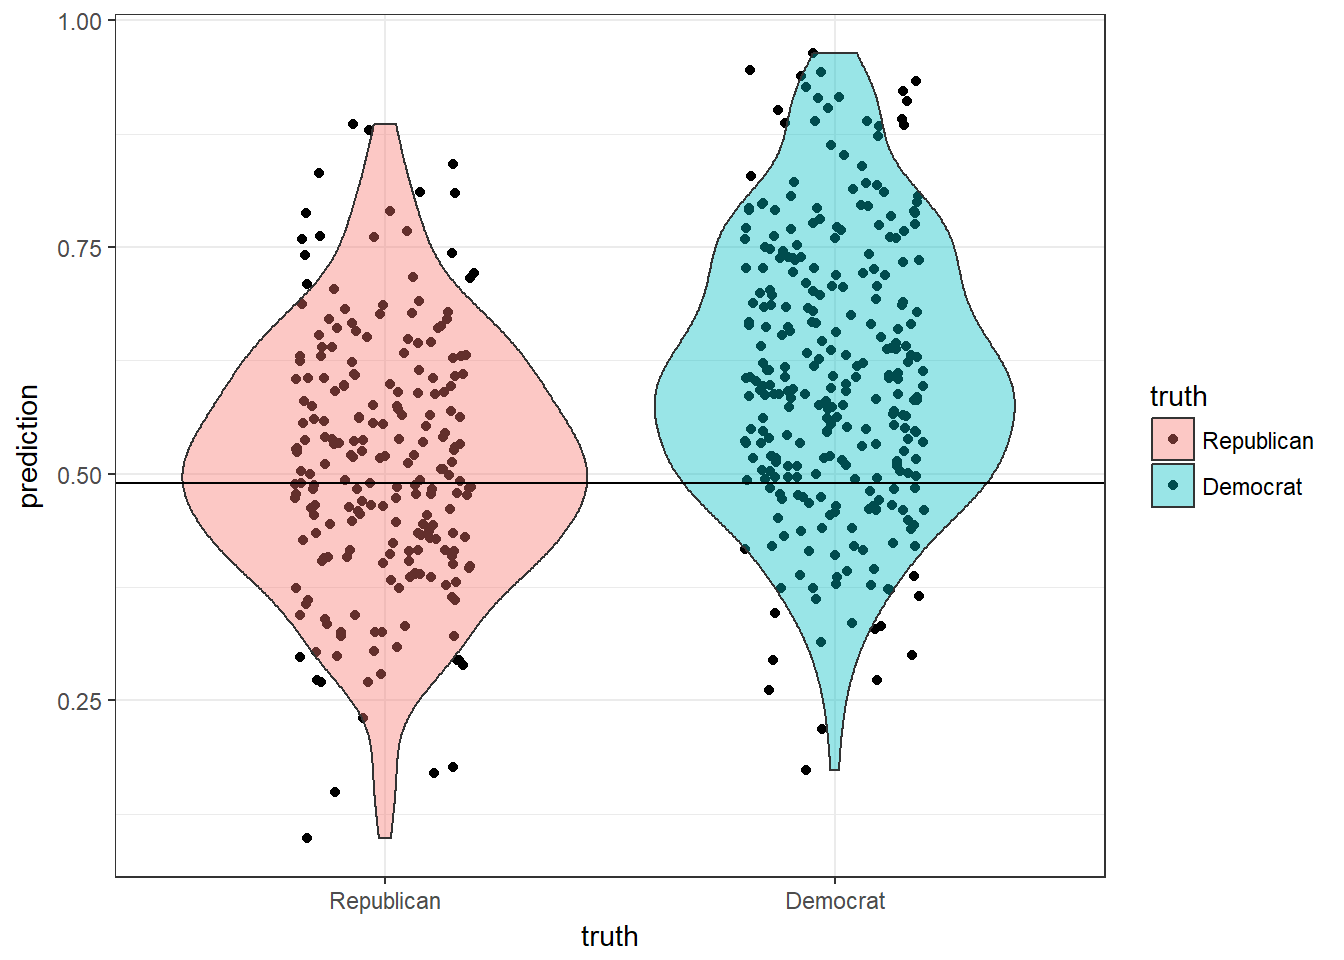
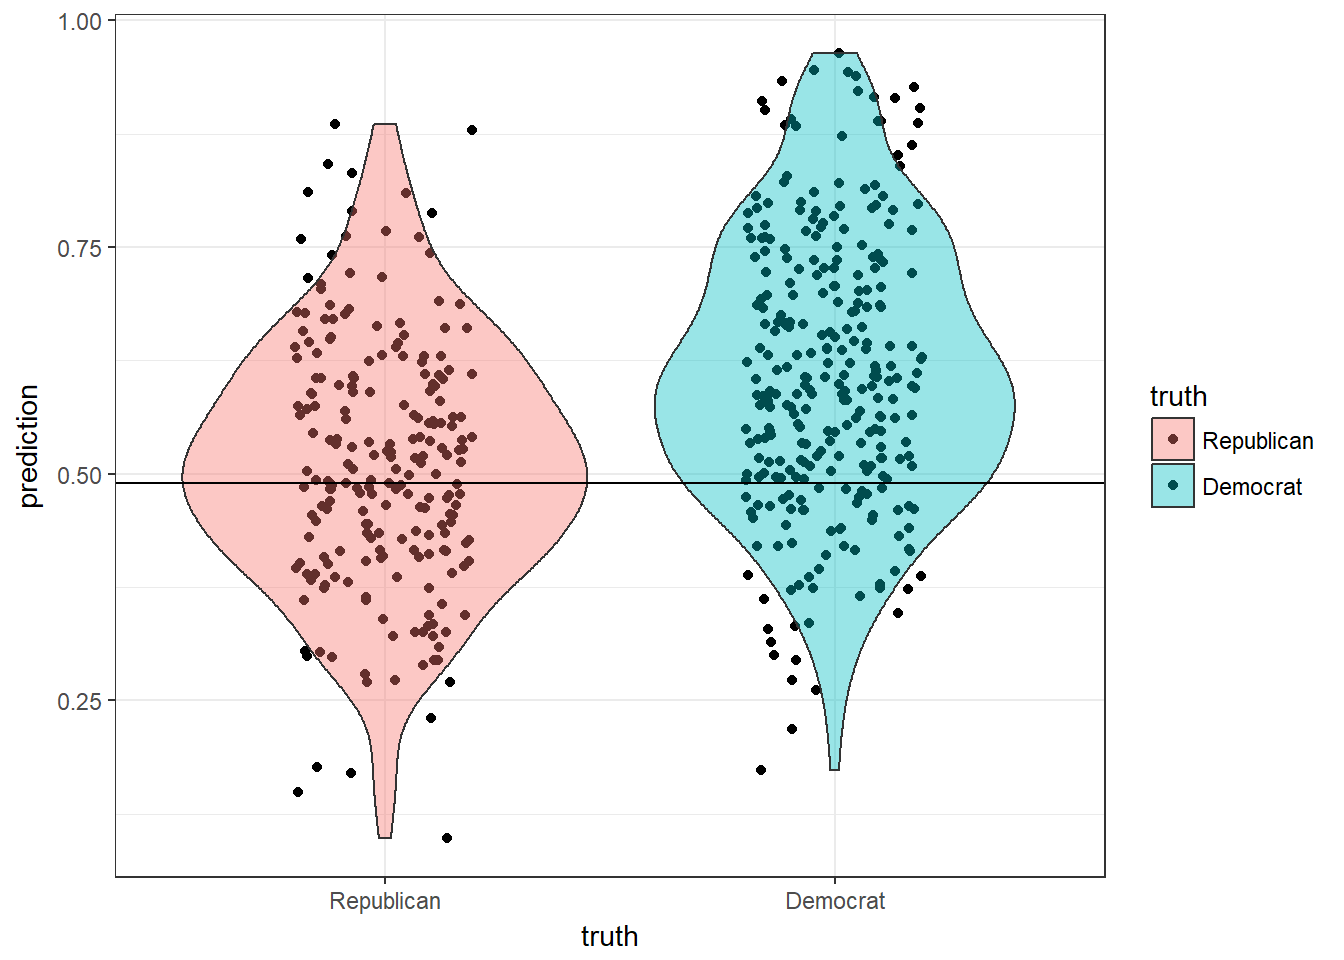
fake news edit

diff --git a/fake_news_project.html b/fake_news_project.html
@@ -261,36 +261,36 @@ PEW7: How much do you think these kind of stories leave Americans confused about
 ## 
 ## Number of Fisher Scoring iterations: 5</code></pre>
 <p>After selecting all of the PEW questions and a couple of extra variables we created a logistic model. The dependent variable here is political ideology. We changed the variable from 5 levels to just 2, extreme and moderate. Extreme included people who were very liberal and very conservative. Moderate was everything else.</p>
-<p><img src="fake_news_project_files/figure-html/unnamed-chunk-6-1.png" width="672" /> With a glm we need to find a cutoff point for what group a probability goes into. This plot lets us get a good idea. The cutoff should be around when the line starts to drop off. I’m choosing .79</p>
+<p><img src="fake_news_project_files/figure-html/unnamed-chunk-6-1.png" width="672" /> With a glm we need to find a cutoff point for what group a probability goes into. This plot lets us get a good idea. The cutoff should be around when the line starts to drop off. I’m choosing .85. So, in this model a true positive for extreme will be less than .85 and a true negative for moderate will be greater than .85.</p>
 <p><img src="fake_news_project_files/figure-html/unnamed-chunk-7-1.png" width="672" /></p>
-<p>This plot shows how accurate the predictions were. If a dot is above out cutoff line at .79, then it was predicted accurately. We see that ot got most of the moderates right but it looks like not much more than half of the extremes were correct. We can look at this accuracy mathematically.</p>
+<p>This plot shows that we chose a good cutoff. For the moderates, most of them are above the line. If the line was any higher we would predict too many moderates falsely.</p>
 <pre><code>## Confusion Matrix and Statistics
 ## 
 ##           Reference
 ## Prediction Extreme Moderate
-##   Extreme       33       71
-##   Moderate      68      637
-##                                           
-##                Accuracy : 0.8282          
-##                  95% CI : (0.8004, 0.8536)
-##     No Information Rate : 0.8752          
-##     P-Value [Acc &gt; NIR] : 1.0000          
-##                                           
-##                   Kappa : 0.2236          
-##  Mcnemar&#39;s Test P-Value : 0.8653          
-##                                           
-##             Sensitivity : 0.32673         
-##             Specificity : 0.89972         
-##          Pos Pred Value : 0.31731         
-##          Neg Pred Value : 0.90355         
-##              Prevalence : 0.12485         
-##          Detection Rate : 0.04079         
-##    Detection Prevalence : 0.12855         
-##       Balanced Accuracy : 0.61323         
-##                                           
-##        &#39;Positive&#39; Class : Extreme         
+##   Extreme       54      184
+##   Moderate      47      524
+##                                          
+##                Accuracy : 0.7145         
+##                  95% CI : (0.682, 0.7454)
+##     No Information Rate : 0.8752         
+##     P-Value [Acc &gt; NIR] : 1              
+##                                          
+##                   Kappa : 0.1737         
+##  Mcnemar&#39;s Test P-Value : &lt;2e-16         
+##                                          
+##             Sensitivity : 0.53465        
+##             Specificity : 0.74011        
+##          Pos Pred Value : 0.22689        
+##          Neg Pred Value : 0.91769        
+##              Prevalence : 0.12485        
+##          Detection Rate : 0.06675        
+##    Detection Prevalence : 0.29419        
+##       Balanced Accuracy : 0.63738        
+##                                          
+##        &#39;Positive&#39; Class : Extreme        
 ## </code></pre>
-<p>Our model had a 82% accuracy rate. The specificity (true negative rate) is very high, but the sensitivity ( true positive rate) is very low. In this model a positive was extreme and a negative was moderate. This could be because of the low sample size of extreme ideologies. Next we made a model with political party being the dependent variable.</p>
+<p>Our model had a 71% accuracy rate. The specificity (true negative rate) is ok at 74% and the sensitivity (true positive rate) is average at 53%. This could be because of the low sample size of extreme ideologies. Next we made a model with political party being the dependent variable.</p>
 <pre><code>## [1] &quot;Republican&quot;    &quot;Democrat&quot;      &quot;Independent&quot;   &quot;No preference&quot;
 ## [5] &quot;Other party&quot;</code></pre>
 <p><img src="fake_news_project_files/figure-html/unnamed-chunk-9-1.png" width="672" /></p>
@@ -323,7 +323,7 @@ PEW7: How much do you think these kind of stories leave Americans confused about
 ##                                           
 ##        &#39;Positive&#39; Class : Republican      
 ## </code></pre>
-<p>This model had a higher sensitivity than the previous onebut it had a lower specificity. The overall accuracy was also lower.</p>
+<p>This model had a higher sensitivity than the previous one but it had a lower specificity. The overall accuracy was also lower.</p>
 <p>Overall these models showed that accurate predictions should be possible with better data. I think with a higher sample size and more specific questions political ideology can be predicted with fake news opinions.</p>
 </div>
 
